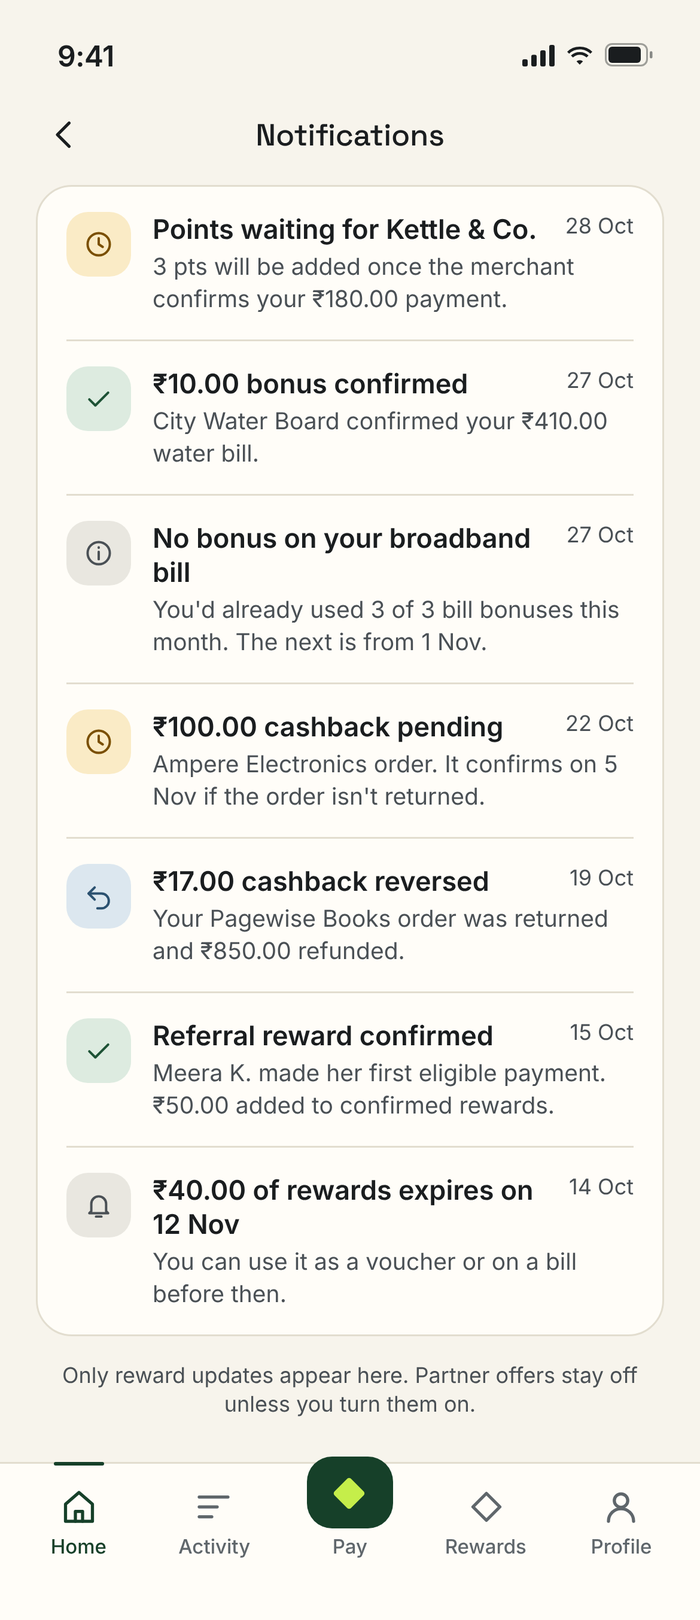
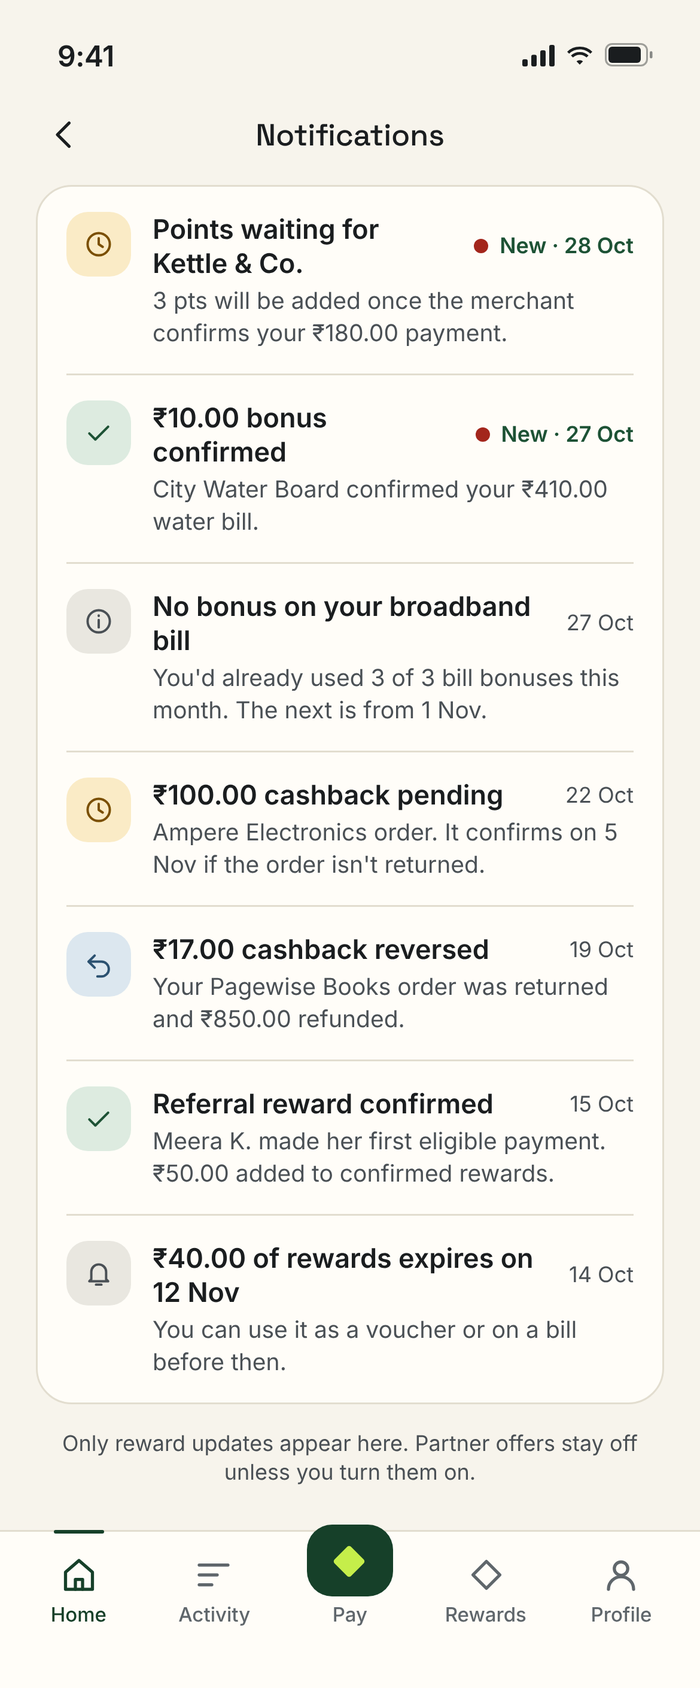
MoneyMines: corrective pass for four minor audit defects
No data, design or feature changes; sample-data.json unchanged.
- Notifications: two most recent marked "New", matching the Home
  bell count (one shared value)
- Transfer review action now reads "Confirm demo transfer"
- Wallet and Activity: pending Kettle & Co. ₹180.00 shown as on hold,
  not paid out (₹15,082.00 completed + ₹180.00 held)
- Prototype Back disabled at session start; Restart resets it
- Re-ran checks: validation 24/24, independent audit 35/35, fix
  checks 16/16; final-audit.md updated

Claude-Session: https://claude.ai/code/session_016sYi37eVA3aeVaXnoGzKpX

diff --git a/portfolio-projects/moneymines/design/screens/S21-notifications.html b/portfolio-projects/moneymines/design/screens/S21-notifications.html
@@ -10,25 +10,25 @@
 <div class="scroll">
   <div class="card" style="padding:0 16px"><a href="S11-receipt-13.html" style="display:grid;grid-template-columns:36px 1fr;gap:12px;padding:14px 0;">
 <span class="chip c-pending" style="width:36px;height:36px;padding:0;justify-content:center;border-radius:12px"><svg xmlns="http://www.w3.org/2000/svg" viewBox="0 0 24 24" width="18" height="18" fill="none" stroke="currentColor" stroke-width="1.75" stroke-linecap="round" stroke-linejoin="round" aria-hidden="true"><circle cx="12" cy="12" r="8.25"/><path d="M12 7.5V12l3 2"/></svg></span>
-<span><div style="display:flex;justify-content:space-between;gap:8px"><span class="b" style="font-size:15px">Points waiting for Kettle & Co.</span><span class="xs muted" style="white-space:nowrap">28 Oct</span></div>
+<span><div style="display:flex;justify-content:space-between;gap:8px"><span class="b" style="font-size:15px">Points waiting for Kettle & Co.</span><span class="xs" style="white-space:nowrap;display:flex;align-items:center;gap:6px;color:var(--mm-forest-700);font-weight:600"><i style="width:8px;height:8px;border-radius:50%;background:var(--mm-status-failed-fg)"></i>New · 28 Oct</span></div>
 <div class="sm muted" style="margin-top:2px">3 pts will be added once the merchant confirms your ₹180.00 payment.</div></span></a><a href="S13-rewards.html" style="display:grid;grid-template-columns:36px 1fr;gap:12px;padding:14px 0;border-top:1px solid var(--mm-border-default)">
 <span class="chip c-success" style="width:36px;height:36px;padding:0;justify-content:center;border-radius:12px"><svg xmlns="http://www.w3.org/2000/svg" viewBox="0 0 24 24" width="18" height="18" fill="none" stroke="currentColor" stroke-width="1.75" stroke-linecap="round" stroke-linejoin="round" aria-hidden="true"><path d="M5 12.5l4.5 4.5L19 7.5"/></svg></span>
-<span><div style="display:flex;justify-content:space-between;gap:8px"><span class="b" style="font-size:15px">₹10.00 bonus confirmed</span><span class="xs muted" style="white-space:nowrap">27 Oct</span></div>
+<span><div style="display:flex;justify-content:space-between;gap:8px"><span class="b" style="font-size:15px">₹10.00 bonus confirmed</span><span class="xs" style="white-space:nowrap;display:flex;align-items:center;gap:6px;color:var(--mm-forest-700);font-weight:600"><i style="width:8px;height:8px;border-radius:50%;background:var(--mm-status-failed-fg)"></i>New · 27 Oct</span></div>
 <div class="sm muted" style="margin-top:2px">City Water Board confirmed your ₹410.00 water bill.</div></span></a><a href="S17-pending.html" style="display:grid;grid-template-columns:36px 1fr;gap:12px;padding:14px 0;border-top:1px solid var(--mm-border-default)">
 <span class="chip c-cancelled" style="width:36px;height:36px;padding:0;justify-content:center;border-radius:12px"><svg xmlns="http://www.w3.org/2000/svg" viewBox="0 0 24 24" width="18" height="18" fill="none" stroke="currentColor" stroke-width="1.75" stroke-linecap="round" stroke-linejoin="round" aria-hidden="true"><circle cx="12" cy="12" r="8.25"/><path d="M12 11v5.5"/><path d="M12 7.6v.4"/></svg></span>
-<span><div style="display:flex;justify-content:space-between;gap:8px"><span class="b" style="font-size:15px">No bonus on your broadband bill</span><span class="xs muted" style="white-space:nowrap">27 Oct</span></div>
+<span><div style="display:flex;justify-content:space-between;gap:8px"><span class="b" style="font-size:15px">No bonus on your broadband bill</span><span class="xs" style="white-space:nowrap;display:flex;align-items:center;gap:6px;color:var(--mm-text-secondary)">27 Oct</span></div>
 <div class="sm muted" style="margin-top:2px">You'd already used 3 of 3 bill bonuses this month. The next is from 1 Nov.</div></span></a><a href="S11-receipt-09.html" style="display:grid;grid-template-columns:36px 1fr;gap:12px;padding:14px 0;border-top:1px solid var(--mm-border-default)">
 <span class="chip c-pending" style="width:36px;height:36px;padding:0;justify-content:center;border-radius:12px"><svg xmlns="http://www.w3.org/2000/svg" viewBox="0 0 24 24" width="18" height="18" fill="none" stroke="currentColor" stroke-width="1.75" stroke-linecap="round" stroke-linejoin="round" aria-hidden="true"><circle cx="12" cy="12" r="8.25"/><path d="M12 7.5V12l3 2"/></svg></span>
-<span><div style="display:flex;justify-content:space-between;gap:8px"><span class="b" style="font-size:15px">₹100.00 cashback pending</span><span class="xs muted" style="white-space:nowrap">22 Oct</span></div>
+<span><div style="display:flex;justify-content:space-between;gap:8px"><span class="b" style="font-size:15px">₹100.00 cashback pending</span><span class="xs" style="white-space:nowrap;display:flex;align-items:center;gap:6px;color:var(--mm-text-secondary)">22 Oct</span></div>
 <div class="sm muted" style="margin-top:2px">Ampere Electronics order. It confirms on 5 Nov if the order isn't returned.</div></span></a><a href="S11-receipt-05.html" style="display:grid;grid-template-columns:36px 1fr;gap:12px;padding:14px 0;border-top:1px solid var(--mm-border-default)">
 <span class="chip c-reversed" style="width:36px;height:36px;padding:0;justify-content:center;border-radius:12px"><svg xmlns="http://www.w3.org/2000/svg" viewBox="0 0 24 24" width="18" height="18" fill="none" stroke="currentColor" stroke-width="1.75" stroke-linecap="round" stroke-linejoin="round" aria-hidden="true"><path d="M9 5.5L4.5 10 9 14.5"/><path d="M4.5 10H14a5.5 5.5 0 010 11h-3"/></svg></span>
-<span><div style="display:flex;justify-content:space-between;gap:8px"><span class="b" style="font-size:15px">₹17.00 cashback reversed</span><span class="xs muted" style="white-space:nowrap">19 Oct</span></div>
+<span><div style="display:flex;justify-content:space-between;gap:8px"><span class="b" style="font-size:15px">₹17.00 cashback reversed</span><span class="xs" style="white-space:nowrap;display:flex;align-items:center;gap:6px;color:var(--mm-text-secondary)">19 Oct</span></div>
 <div class="sm muted" style="margin-top:2px">Your Pagewise Books order was returned and ₹850.00 refunded.</div></span></a><a href="S16-referrals.html" style="display:grid;grid-template-columns:36px 1fr;gap:12px;padding:14px 0;border-top:1px solid var(--mm-border-default)">
 <span class="chip c-success" style="width:36px;height:36px;padding:0;justify-content:center;border-radius:12px"><svg xmlns="http://www.w3.org/2000/svg" viewBox="0 0 24 24" width="18" height="18" fill="none" stroke="currentColor" stroke-width="1.75" stroke-linecap="round" stroke-linejoin="round" aria-hidden="true"><path d="M5 12.5l4.5 4.5L19 7.5"/></svg></span>
-<span><div style="display:flex;justify-content:space-between;gap:8px"><span class="b" style="font-size:15px">Referral reward confirmed</span><span class="xs muted" style="white-space:nowrap">15 Oct</span></div>
+<span><div style="display:flex;justify-content:space-between;gap:8px"><span class="b" style="font-size:15px">Referral reward confirmed</span><span class="xs" style="white-space:nowrap;display:flex;align-items:center;gap:6px;color:var(--mm-text-secondary)">15 Oct</span></div>
 <div class="sm muted" style="margin-top:2px">Meera K. made her first eligible payment. ₹50.00 added to confirmed rewards.</div></span></a><a href="S13-rewards.html" style="display:grid;grid-template-columns:36px 1fr;gap:12px;padding:14px 0;border-top:1px solid var(--mm-border-default)">
 <span class="chip c-cancelled" style="width:36px;height:36px;padding:0;justify-content:center;border-radius:12px"><svg xmlns="http://www.w3.org/2000/svg" viewBox="0 0 24 24" width="18" height="18" fill="none" stroke="currentColor" stroke-width="1.75" stroke-linecap="round" stroke-linejoin="round" aria-hidden="true"><path d="M6.5 16.5V11a5.5 5.5 0 0111 0v5.5l1.5 1.5H5z"/><path d="M10 20.5h4"/></svg></span>
-<span><div style="display:flex;justify-content:space-between;gap:8px"><span class="b" style="font-size:15px">₹40.00 of rewards expires on 12 Nov</span><span class="xs muted" style="white-space:nowrap">14 Oct</span></div>
+<span><div style="display:flex;justify-content:space-between;gap:8px"><span class="b" style="font-size:15px">₹40.00 of rewards expires on 12 Nov</span><span class="xs" style="white-space:nowrap;display:flex;align-items:center;gap:6px;color:var(--mm-text-secondary)">14 Oct</span></div>
 <div class="sm muted" style="margin-top:2px">You can use it as a voucher or on a bill before then.</div></span></a></div>
   <p class="xs muted" style="margin-top:14px;text-align:center">Only reward updates appear here. Partner offers stay off unless you turn them on.</p>
 </div>

diff --git a/portfolio-projects/moneymines/prototype/index.html b/portfolio-projects/moneymines/prototype/index.html
@@ -24,6 +24,7 @@ select{width:100%;height:40px;border-radius:10px;border:1.5px solid var(--mm-cha
 main{display:flex;flex-direction:column;align-items:center;justify-content:center;padding:24px;gap:16px}
 .bar{display:flex;align-items:center;gap:10px;font:400 14px/20px var(--mm-font-text)}
 .bar button{height:38px;padding:0 14px;border-radius:10px;border:1.5px solid var(--mm-charcoal-400);background:var(--mm-paper-0);font:600 14px/1 var(--mm-font-text);cursor:pointer;color:inherit}
+.bar button:disabled{opacity:.45;cursor:default}
 .bar button.primary{background:var(--mm-forest-800);border-color:var(--mm-forest-800);color:var(--mm-paper-50)}
 .bar .cur{min-width:260px;text-align:center}
 .bar .cur b{font-weight:600}
@@ -45,7 +46,7 @@ main{display:flex;flex-direction:column;align-items:center;justify-content:cente
 </aside>
 <main>
   <div class="bar">
-    <button id="back" type="button" aria-label="Back">← Back</button>
+    <button id="back" type="button" aria-label="Back" disabled aria-disabled="true" title="You are at the start of this session">← Back</button>
     <div class="cur" aria-live="polite"><b id="cur-id">S01</b> · <span id="cur-title">Loading…</span></div>
     <button id="restart" class="primary" type="button">Restart</button>
   </div>
@@ -56,6 +57,9 @@ main{display:flex;flex-direction:column;align-items:center;justify-content:cente
 <script>
 var FLOWS=[["Start here: first run", "Onboarding, sign-in with a demo code, then the home screen loads.", ["S01-onboarding-1", "S01-onboarding-2", "S01-onboarding-3", "S02-signup", "S02-otp", "S03-home-loading", "S03-home"]], ["Partner purchase → capped cashback", "₹6,499 × 2% = ₹129.98, capped at ₹100.00 and pending until 5 Nov.", ["S09-partners", "S10-review", "S11-receipt-09", "S17-pending"]], ["Bill after the monthly limit", "The missing bonus is explained before paying, not after.", ["S05-pay", "S06-bill-payment", "S10-review-bill", "S11-receipt-11"]], ["Scan & pay → points", "₹420 earns 8 pts in whole ₹50 steps.", ["S07-merchant-payment", "S10-review-merchant", "S11-receipt-08"]], ["Transfer to a person", "Transfers never earn rewards, and the app says so up front.", ["S08-transfer", "S10-review-transfer", "S11-receipt-04"]], ["Points → redemption (hypothetical)", "HYP-02 conversion and HYP-01 voucher. The 28 Oct snapshot never changes.", ["S13-rewards", "S15-points", "S15-points-convert-hypothetical", "S18-redeem", "S19-redeem-review", "S19-redeem-confirmation", "S20-redemption-history"]], ["Reversal", "A returned order: refund, reversed cashback and a timeline.", ["S21-notifications", "S11-receipt-05", "S17-pending"]], ["Referrals & profile", "Invite status, terms and help.", ["S22-profile", "S16-referrals", "S14-offer-details"]]], STATES=[["Loading", ["S03-home-loading"]], ["Empty", ["S12-activity-empty", "S13-rewards-empty", "S16-referrals-empty", "S20-redemption-history-empty", "S21-notifications-empty"]], ["Errors", ["S02-otp-error", "S06-bill-error"]], ["Transaction states", ["S11-receipt-09", "S11-receipt-13", "S11-receipt-07", "S11-receipt-12", "S11-receipt-05"]], ["Previews", ["S18-in-app-preview"]]], TITLES={"S01-onboarding-1": "Welcome 1 of 3", "S01-onboarding-2": "Welcome 2 of 3", "S01-onboarding-3": "Welcome 3 of 3", "S02-otp-error": "Verify code · error", "S02-otp": "Verify code", "S02-signup": "Sign up or log in", "S03-home-loading": "Home · loading", "S03-home": "Home", "S04-wallet": "Wallet", "S05-pay": "Pay", "S06-bill-error": "Bill payment · error", "S06-bill-payment": "Bill payment", "S07-merchant-payment": "Merchant payment", "S08-transfer": "Transfer", "S09-partners": "Partner shops", "S10-review-bill": "Review bill payment", "S10-review-merchant": "Review scan & pay", "S10-review-transfer": "Review transfer", "S10-review": "Review payment", "S11-receipt-01": "Receipt · Orbit Mobile", "S11-receipt-02": "Receipt · Kesar Grocers", "S11-receipt-03": "Receipt · Metro Power", "S11-receipt-04": "Receipt · Rohan S.", "S11-receipt-05": "Receipt · reversed", "S11-receipt-06": "Receipt · success", "S11-receipt-07": "Receipt · failed", "S11-receipt-08": "Receipt · Tamarind Café", "S11-receipt-09": "Receipt · success", "S11-receipt-10": "Receipt · City Water Board", "S11-receipt-11": "Receipt · Skyline Fibre", "S11-receipt-12": "Receipt · cancelled", "S11-receipt-13": "Receipt · pending", "S12-activity-empty": "Activity · no results", "S12-activity": "Activity", "S13-rewards-empty": "Rewards · first use", "S13-rewards": "Rewards", "S14-offer-details": "Offer & reward terms", "S15-points-convert-hypothetical": "Points conversion · hypothetical", "S15-points": "Points", "S16-referrals-empty": "Referrals · empty", "S16-referrals": "Referrals", "S17-pending": "Pending & eligibility", "S18-in-app-preview": "Apply rewards to a bill · preview", "S18-redeem": "Use rewards", "S19-redeem-confirmation": "Redemption recorded (simulated)", "S19-redeem-review": "Redemption review", "S20-redemption-history-empty": "Redemption history · empty", "S20-redemption-history": "Redemption history", "S21-notifications-empty": "Notifications · empty", "S21-notifications": "Notifications", "S22-profile": "Profile"};
 var app=document.getElementById('app'), activeFlow=0;
+var trail=[],goingBack=false,resetting=false,backBtn=null;
+function setBack(){if(!backBtn)backBtn=document.getElementById('back');var can=trail.length>1;backBtn.disabled=!can;
+  backBtn.title=can?'Back to the previous screen':'You are at the start of this session';backBtn.setAttribute('aria-disabled',String(!can));}
 function go(id){app.src='../design/screens/'+id+'.html';}
 function renderSteps(cur){var f=FLOWS[activeFlow],el=document.getElementById('steps');el.innerHTML='';
   f[2].forEach(function(id,i){var b=document.createElement('button');b.type='button';b.textContent=(i+1)+'. '+id.replace(/^S(\d+)-/,'S$1 ');
@@ -72,9 +76,11 @@ STATES.forEach(function(s){var w=document.createElement('div');w.style.marginBot
 var sel=document.getElementById('all');
 Object.keys(TITLES).forEach(function(id){var o=document.createElement('option');o.value=id;o.textContent=id+' · '+TITLES[id];sel.appendChild(o);});
 sel.onchange=function(){go(sel.value)};
-document.getElementById('restart').onclick=function(){activeFlow=0;[].forEach.call(fl.children,function(c,j){c.className='flow'+(j===0?' on':'')});go('S01-onboarding-1');};
-document.getElementById('back').onclick=function(){try{app.contentWindow.postMessage({mm:'back'},'*');}catch(e){}};
+document.getElementById('restart').onclick=function(){trail=[];resetting=true;setBack();activeFlow=0;[].forEach.call(fl.children,function(c,j){c.className='flow'+(j===0?' on':'')});try{app.contentWindow.location.replace('../design/screens/S01-onboarding-1.html');}catch(e){go('S01-onboarding-1');}};
+document.getElementById('back').onclick=function(){if(trail.length<2)return;goingBack=true;try{app.contentWindow.postMessage({mm:'back'},'*');}catch(e){goingBack=false;}};
 window.addEventListener('message',function(e){if(!e.data||e.data.mm!=='screen')return;
+  if(goingBack){trail.pop();goingBack=false;}else if(resetting){trail=[e.data.id];resetting=false;}else if(trail[trail.length-1]!==e.data.id){trail.push(e.data.id);}
+  setBack();
   document.getElementById('cur-id').textContent=e.data.id.split('-')[0];
   document.getElementById('cur-title').textContent=e.data.title;sel.value=e.data.id;
   var inFlow=FLOWS[activeFlow][2].indexOf(e.data.id)>-1;

diff --git a/portfolio-projects/moneymines/design/screens/S12-activity.html b/portfolio-projects/moneymines/design/screens/S12-activity.html
@@ -12,7 +12,7 @@
 <div style="height:48px;border-radius:14px;background:var(--mm-bg-sunken);display:flex;align-items:center;gap:10px;padding:0 14px;color:var(--mm-text-tertiary);font-size:15px"><svg xmlns="http://www.w3.org/2000/svg" viewBox="0 0 24 24" width="20" height="20" fill="none" stroke="currentColor" stroke-width="1.75" stroke-linecap="round" stroke-linejoin="round" aria-hidden="true"><circle cx="10.75" cy="10.75" r="6.25"/><path d="M15.5 15.5L20 20"/></svg>Search payments, people, IDs</div>
 <div style="display:flex;gap:8px;margin-top:12px;overflow:hidden"><span class="filter on">All</span><span class="filter">Rewards</span><span class="filter">Pending</span><span class="filter">Failed</span><span class="filter">Not eligible</span></div>
   <div class="sunken" style="padding:14px 16px;margin-top:14px;display:grid;grid-template-columns:1fr 1fr;gap:12px">
-    <div><div class="ov">October · paid</div><div class="num" style="font-size:18px;margin-top:2px">₹15,262.00</div></div>
+    <div><div class="ov">October · paid</div><div class="num" style="font-size:18px;margin-top:2px">₹15,082.00</div><div class="xs muted">+ ₹180.00 on hold</div></div>
     <div><div class="ov">October · rewards</div><div class="sm" style="margin-top:3px"><span class="num" style="color:var(--mm-forest-700)">₹80.00</span> confirmed · <span class="num">₹120.00</span> pending</div></div>
   </div>
   <div class="ov" style="margin:16px 0 4px">28 Oct</div><div class="card" style="padding:0 14px"><a class="txn" href="S11-receipt-13.html" style="grid-template-columns:40px minmax(0,1fr) auto"><span class="tile"><svg xmlns="http://www.w3.org/2000/svg" viewBox="0 0 24 24" width="20" height="20" fill="none" stroke="currentColor" stroke-width="1.75" stroke-linecap="round" stroke-linejoin="round" aria-hidden="true"><path d="M4 8.5V4h4.5M15.5 4H20v4.5M20 15.5V20h-4.5M8.5 20H4v-4.5"/><path d="M4 12h16"/></svg></span>

diff --git a/portfolio-projects/moneymines/design/screens/S10-review-transfer.html b/portfolio-projects/moneymines/design/screens/S10-review-transfer.html
@@ -16,7 +16,7 @@
     <div style="display:flex;justify-content:space-between;border-top:1px solid var(--mm-border-default);margin-top:12px;padding-top:12px"><span class="b" style="font-size:14px">You pay</span><span class="num" style="font-size:16px">₹1,500.00</span></div></div>
   <div style="margin-top:14px"><div class="info neutral"><svg xmlns="http://www.w3.org/2000/svg" viewBox="0 0 24 24" width="20" height="20" fill="none" stroke="currentColor" stroke-width="1.75" stroke-linecap="round" stroke-linejoin="round" aria-hidden="true"><circle cx="12" cy="12" r="8.25"/><path d="M12 11v5.5"/><path d="M12 7.6v.4"/></svg><span>Transfers between people don't earn rewards.</span></div></div>
 </div>
-<div class="cta"><div class="demo"><svg xmlns="http://www.w3.org/2000/svg" viewBox="0 0 24 24" width="16" height="16" fill="none" stroke="currentColor" stroke-width="1.75" stroke-linecap="round" stroke-linejoin="round" aria-hidden="true"><path d="M6 10.5h12V20H6z"/><path d="M8.5 10.5V8a3.5 3.5 0 017 0v2.5"/></svg><span>Simulated: no money will move.</span></div><a class="btn primary" href="S11-receipt-04.html">Confirm demo payment</a></div><div class="home-ind"></div></main><script>
+<div class="cta"><div class="demo"><svg xmlns="http://www.w3.org/2000/svg" viewBox="0 0 24 24" width="16" height="16" fill="none" stroke="currentColor" stroke-width="1.75" stroke-linecap="round" stroke-linejoin="round" aria-hidden="true"><path d="M6 10.5h12V20H6z"/><path d="M8.5 10.5V8a3.5 3.5 0 017 0v2.5"/></svg><span>Simulated: no money will move.</span></div><a class="btn primary" href="S11-receipt-04.html">Confirm demo transfer</a></div><div class="home-ind"></div></main><script>
 (function(){
   function toast(msg){var t=document.createElement('div');t.className='toast';t.setAttribute('role','status');t.textContent=msg;
     document.querySelector('.screen').appendChild(t);setTimeout(function(){t.remove()},2600);}

diff --git a/portfolio-projects/moneymines/design/screens/S04-wallet.html b/portfolio-projects/moneymines/design/screens/S04-wallet.html
@@ -21,11 +21,12 @@
   <div class="card" style="padding:16px">
     <div class="kv">
       <span class="k">Balance on 1 Oct</span><span class="v num">₹27,742.50</span>
-      <span class="k">Paid out (10 payments)</span><span class="v num">− ₹15,262.00</span>
+      <span class="k">Paid out (9 completed payments)</span><span class="v num">− ₹15,082.00</span>
+      <span class="k">On hold: Kettle & Co. (pending)</span><span class="v num">− ₹180.00</span>
       <span class="k">Refunded (Pagewise Books)</span><span class="v num muted">not debited</span>
     </div>
     <div style="display:flex;justify-content:space-between;border-top:1px solid var(--mm-border-default);margin-top:12px;padding-top:12px"><span class="b" style="font-size:14px">Balance today</span><span class="num" style="font-size:16px">₹12,480.50</span></div>
-    <p class="xs muted" style="margin-top:10px">Failed, cancelled and reversed payments never reduce the balance.</p>
+    <p class="xs muted" style="margin-top:10px">The pending amount is held, not paid. If the merchant doesn't confirm, it returns to your balance. Failed, cancelled and reversed payments never reduce the balance.</p>
   </div>
   <div class="section-h"><h2>Biggest payments</h2><a href="S12-activity.html">All activity</a></div>
   <div class="card" style="padding:0 16px"><a class="txn" href="S11-receipt-09.html" style="grid-template-columns:40px minmax(0,1fr) auto"><span class="tile"><svg xmlns="http://www.w3.org/2000/svg" viewBox="0 0 24 24" width="20" height="20" fill="none" stroke="currentColor" stroke-width="1.75" stroke-linecap="round" stroke-linejoin="round" aria-hidden="true"><path d="M5 8h14l-1 12H6z"/><path d="M9 10V7a3 3 0 016 0v3"/></svg></span>

diff --git a/portfolio-projects/moneymines/documentation/final-audit.md b/portfolio-projects/moneymines/documentation/final-audit.md
@@ -8,6 +8,9 @@ Audit date: 28 Oct 2026 · Branch: `moneymines-concept` · Scope: verification o
 |---|---|
 | Stage 4 validation suite, re-run ([validation-report.md](validation-report.md)) | **24 / 24 pass** |
 | Independent Stage 5 audit (below) | **35 / 35 pass** after fixes |
+| Corrective-pass checks for the four minor defects (section 1a) | **16 / 16 pass** |
+
+All three suites were re-run after the corrective pass and the results above are from that run. The Stage 4 suite also re-checks readability (smallest slide text is still 13.1 px at Behance width).
 
 The independent audit doesn't reuse the screen generators. It recomputes the snapshot from the raw transactions, reads the finished screen files, and drives the real prototype in Chromium: it taps through every guided flow, opens every States-panel entry, and opens each receipt from its Activity row.
 
@@ -19,6 +22,36 @@ The independent audit doesn't reuse the screen generators. It recomputes the sna
 | README showed Stage 4 as "awaiting review" and Stage 5 as "Not started" | Updated |
 
 Two first-run failures were **false positives**: the credit-consistency regex captured caption text that follows the credit in caption 19. The wording itself was correct, and the regex was tightened. Separately, the stale-wording check flagged the Stage 5 status row, which correctly says it's awaiting approval; that row is excluded from the check.
+
+## 1a. Corrective pass: the four minor defects
+
+| Defect | Fix |
+|---|---|
+| Home bell said "2 new", but no notifications were marked | The two most recent notifications (28 Oct, 27 Oct) now show a red dot and the word **New** beside the date. The bell's count and the marked items come from one shared value, so they can't drift apart. |
+| Transfer review button said "Confirm demo payment" | Now reads **Confirm demo transfer**. The other three reviews are unchanged. |
+| Wallet counted the pending ₹180.00 Kettle & Co. payment as "Paid out" | Wallet now shows **Paid out (9 completed payments) − ₹15,082.00** and **On hold: Kettle & Co. (pending) − ₹180.00**, with a note that held money returns if the merchant doesn't confirm. The Activity summary had the same issue and now reads ₹15,082.00 "+ ₹180.00 on hold". The balance is unchanged: ₹27,742.50 − ₹15,082.00 − ₹180.00 = ₹12,480.50. |
+| Prototype Back did nothing on the first screen | Back is now **disabled** at the start of a session, with the tooltip "You are at the start of this session". It enables once you move, retraces step by step (including after guided-flow jumps), and **Restart** resets it to disabled. |
+
+**Unchanged:** `sample-data.json` is byte-for-byte identical, with no data, design or new features. Files changed: 4 screen sources (S04-wallet, S10-review-transfer, S12-activity, S21-notifications), their exports (8 PNGs). S03-home now reads its count from the shared value but renders identically. Also changed: the all-screens overview, Behance images 13 and 18 (which show S21 and S04), and the prototype viewer. Both suites' figure checks now derive the ₹15,082.00 / ₹180.00 split from the transactions; neither value is hard-coded.
+
+| Check | Result | Detail |
+|---|---|---|
+| 1. Home bell count equals notifications marked New | ✅ Pass | home says 2, S21 marks 2 |
+| 1. Empty notifications screen marks none as New | ✅ Pass |  |
+| 2. Transfer review action reads 'Confirm demo transfer' | ✅ Pass |  |
+| 2. Other reviews unchanged ('Confirm demo payment') | ✅ Pass |  |
+| 3. Wallet 'Paid out' counts completed payments only | ✅ Pass | ₹15,082.00 |
+| 3. Pending ₹180.00 shown as on hold, not paid | ✅ Pass |  |
+| 3. Balance arithmetic unchanged: ₹27,742.50 − ₹15,082.00 − ₹180.00 = ₹12,480.50 | ✅ Pass |  |
+| 3. Activity summary uses the same split | ✅ Pass |  |
+| 4. Back is disabled on the first screen of a session | ✅ Pass | ('S01-onboarding-1', True) |
+| 4. Pressing it there does nothing (stays on S01) | ✅ Pass | S01-onboarding-1 |
+| 4. Back enables after moving on, and returns to the previous screen | ✅ Pass | ('S01-onboarding-2', True) → ('S01-onboarding-1', True) |
+| 4. Multi-step Back retraces correctly | ✅ Pass | S01-onboarding-2 |
+| 4. Back works after a guided-flow jump | ✅ Pass | ('S10-review', True) |
+| 4. Restart returns to S01 and resets Back to disabled | ✅ Pass | ('S01-onboarding-1', True), after Back: S01-onboarding-1 |
+| 4. Disabled state is explained (tooltip / aria-disabled) | ✅ Pass | You are at the start of this session |
+| No JavaScript errors | ✅ Pass | none |
 
 ## 2. Independent audit detail
 
@@ -64,11 +97,8 @@ Two first-run failures were **false positives**: the credit-consistency regex ca
 
 These need human judgement or tools that weren't available here. None blocks a Behance upload. They're listed so nothing is overstated.
 
-**Remaining minor defects (not fixed, because the brief said no redesign):**
-1. **Notification count:** the Home bell is labelled "2 new", but the Notifications screen doesn't mark which two are new.
-2. **Transfer review wording:** the transfer review button says "Confirm demo payment". "Confirm demo transfer" would be more precise.
-3. **Wallet wording:** the wallet summary counts the pending Kettle & Co. payment (₹180.00) under "Paid out (10 payments)". The receipt says it's reversed automatically if not confirmed. The arithmetic is right, but "paid out" slightly overstates a pending payment.
-4. **Back button:** the prototype's Back button does nothing on the first screen of a session. Settings toggles don't change state; they show an explanatory note.
+**Minor defects 1–4: fixed in the corrective pass (section 1a).**
+Still true by design: settings toggles don't change state; they show an explanatory note.
 
 **Limits of verification:**
 5. **Browsers:** the prototype was tested in Chromium only. Firefox and Safari weren't available in this environment.
@@ -85,7 +115,7 @@ These need human judgement or tools that weren't available here. None blocks a B
 - [ ] Review the 19 images in `exports/behance/` and the captions in `behance/captions.md`
 - [ ] Review the case study (`behance/case-study.md`) and the Behance fields (`behance/project-description.md`)
 - [ ] Download the branch ZIP and open `prototype/index.html` (see `prototype/README.md`)
-- [ ] Decide whether the minor defects in section 3 (items 1–4) should be fixed before publishing
+- [x] Minor defects 1–4 fixed (section 1a)
 - [ ] Decide whether to add the build scripts (`tools/`) for future edits
 - [ ] Approve or decline merging `moneymines-concept` into `main` (not done)
 - [ ] Decide repository visibility (currently **private**; unchanged)
